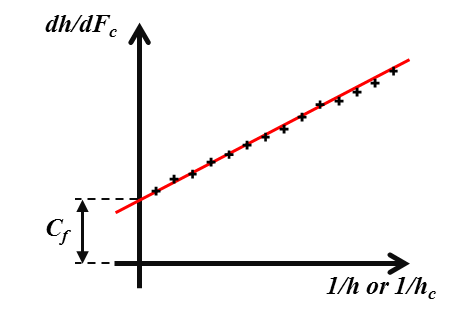
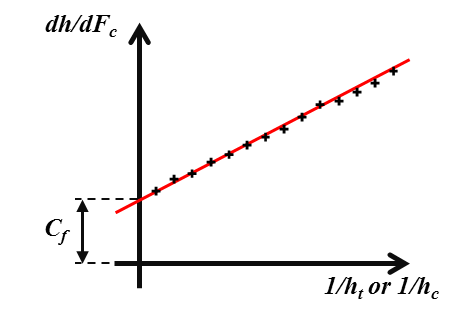
updated doc

Changed region(s): [[0.6985, 0.8544, 0.9718, 0.9399], [0.0911, 0.6835, 0.1518, 0.769], [0.3948, 0.5411, 0.4252, 0.5696]]

diff --git a/doc/models_thin_films.rst b/doc/models_thin_films.rst
@@ -7,53 +7,7 @@ The following parts give a short overview of models existing in the
 literature used for the extraction of mechanical properties of thin films
 deposited on a substrate from indentation experiments with conical indenters.
 
-Nanoindentation tests on thin films
-######################################
-
-For indentation test on a multilayer sample (thin films deposited on a substrate
-for example), the calculated composite reduced modulus :math:`E^{'}` with previous
-models, can generally be expressed as a combination of the respective reduced
-moduli of the films, :math:`E^{'}_\text{f}`, and of the substrate, :math:`E^{'}_\text{s}`.
-
-If the films moduli differs from that of the substrate, then :math:`E^{'}` changes
-with the depth of penetration :math:`h`. The evolution of the composite modulus :math:`E^{'}`
-is function of the material properties of the materials, the thickness :math:`t` and 
-the density of the thin films and the properties and the geometry of the indenter.
-
-If the characterized film is thick enough, it is possible to extract the elastic properties
-for indentation depth lower than 10% of the film thickness (:math:`h \leq 0.1*t`) [#Bückle_1961]_.
-
-Because of the imperfections of the indenters, the roughness and the surface pollution,
-it is more or less meaningful to use this rule of the 10%, for film thicker than 500nm.
-
-Several models to analyse bilayer sample indentation and to extract intrinsic
-material properties of the film from are detailed in the following part.
-
-Mencík et al. proposed the following structures to express the combination of
-:math:`E^{'}_\text{f}` and :math:`E^{'}_\text{s}` [#Mencík_1997]_.
-         
-    .. math:: E^{'} = E^{'}_\text{s} + \left(E^{'}_\text{f} - E^{'}_\text{s}\right) \phi\left(x\right)
-            :label: youngs_modulus_evolution_phi
-
-    .. math:: E^{'} = E^{'}_\text{s} + \left(E^{'}_\text{f} - E^{'}_\text{s}\right) \psi\left(x\right)
-            :label: youngs_modulus_evolution_psi
-            
-Where :math:`x` is the ratio of the contact radius (:math:`a_\text{c}`) or the
-contact depth (:math:`h_\text{c}`), to the film thickness (:math:`t`), and 
-:math:`\phi` and :math:`\psi` are weight functions of the relative penetration :math:`x`.
-:math:`\phi` is equal to 1 when :math:`x` is equal to 0 and 0 when :math:`x` is infinite.
-           
-.. note::
-    If the difference between Poisson's ratio of the thin film and substrate is small,
-    the values for uniaxial loading Young's moduli, :math:`E`, :math:`E_\text{f}`,
-    :math:`E_\text{s}` can be used in previous equation.
-    
-Some of the following models developed are as well detailled in the chapter 8 ("Nanoindentaion of Thin Films")
-of the book "Nanoindentation" written by A.C. Fischer-Cripps [#FischerCripps_2004]_.
-    
-Before, presenting the details of the following models developed for indentation test on coatings,
-is is worth to mention the work performed by Jennett N. M. and Bushby A. J. [#Jennett_2001]_,
-during the European project INDICOAT (SMT4-CT98-2249).
+Before everything, it is is worth to mention the work performed by Jennett N. M. and Bushby A. J. [#Jennett_2001]_, about nanoindentation test on coatings, during the European project INDICOAT (SMT4-CT98-2249).
 
 Progress from this project help in the development of the ISO standard (ISO 14577 - 1-4).
 The ISO 14577 - 4 is dedicated to nanoindentation on coatings.
@@ -66,23 +20,60 @@ The ISO 14577 - 4 is dedicated to nanoindentation on coatings.
 
 - `ISO 14577 - 4 , "Metallic materials -- Instrumented indentation test for hardness and materials parameters -- Part 4: Test method for metallic and non-metallic coatings", (2007). <http://www.iso.org/iso/home/store/catalogue_tc/catalogue_detail.htm?csnumber=39228>`_
 
+Nanoindentation tests on thin films
+######################################
+
+Composite reduced Young's modulus and composite hardness
+----------------------------------------------------------
+
+For indentation test on a coated specimen or on a multilayer sample (e.g.: thin films deposited on a substrate), the evolution of the Young's modulus and the hardness calculated with the models used for bulk materials, is function of the material properties, the thickness :math:`t` and the density of each underlying films (substrate included), and the properties and the geometry of the indenter.
+
+.. figure:: ./_pictures/evolution_EandH_thinfilm.png
+   :scale: 60 %
+   :align: center
+   
+   *Figure 1 : Schematic of the evolution of Young's modulus and hardness for a coated specimen in function of the normalized indentation depth.*
+
+Thus, the composite reduced Young's modulus :math:`E^{'}` and the composite hardness :math:`H`
+calculated with the models used for bulk materials, can generally be expressed as a combination of respectively the reduced Young's moduli :math:`(E^{'}_\text{f})` or the hardness :math:`(H_\text{f})` of each underlayers and respectively the reduced Young's modulus :math:`(E^{'}_\text{s})` or the hardness :math:`(H_\text{s})` of the substrate.
+
+    .. math:: E^{'} = f(E^{'}_{\text{f},{i \rightarrow n}}, t_i, E^{'}_\text{s})
+            :label: youngs_modulus_evolution
+
+    .. math:: H = f(H_{\text{f},{i \rightarrow n}}, t_i, H_\text{s})
+            :label: hardness_evolution
+
+With math:`i` the indice of the layer and math:`n` the total number of layers.
+
 Indentation contact topography
 -------------------------------
 
-For nanoindentation tests on thin films, the contact topography is function of both thin film and substrate properties (see Figure 1).
+For nanoindentation tests on thin films, the contact topography is function of both thin film and substrate properties.
 
 .. figure:: ./_pictures/contact_topography_thinfilm.png
    :scale: 60 %
    :align: center
    
-   *Figure 1 : Schematic depiction of a) "pile-up" and b) "sink-in" for thin films.*
+   *Figure 2 : Schematic depiction of a) "pile-up" and b) "sink-in" for thin films.*
    
-The Figure 1-a ("pile-up") is typical of the case of a soft film on a hard substrate and the Figure 1-b ("sink-in") of a hard film on a soft substrate [#ChenVlassak2001]_.
+The Figure 2-a ("pile-up") is typical of the case of a soft film on a hard substrate and the Figure 2-b ("sink-in") of a hard film on a soft substrate [#ChenVlassak2001]_.
    
 To determine the depth of contact, `the same models <http://nims.readthedocs.org/en/latest/models.html#indentation-contact-topography>`_ described for bulk material indentation are used.
 
 Elastic properties of a thin film on a substrate
 ##################################################
+
+Several models to analyse indentation tests on bilayer sample and multilayer sample and to extract intrinsic
+material properties of the upper film (or the top coating) are detailed in the following part.
+
+Some of the following models developed are detailed in the chapter 8 
+("Nanoindentation of Thin Films") of the book "Nanoindentation" written by A.C. Fischer-Cripps [#FischerCripps_2004]_.
+
+Bückle (1961) 
+--------------
+
+Bückle proposed an empirical law to characterize thick coatings on a substrate [#Bückle_1961]_.
+It is possible to estimate the Young's modulus of the coating for indentation depth lower than 10% of the film thickness. But, because of the imperfections of the indenters, the roughness and the surface pollution, it is more meaningful to use this rule of the "10%", for film thicker than 500nm.
 
 Doerner and Nix (1986) 
 -------------------------
@@ -152,10 +143,32 @@ Find here the |matlab| function for :math:`\nu_{c}` the composite Poisson's rati
 Find here the |matlab| function for the Gao et al. model :
 `model_gao.m <https://github.com/DavidMercier/NIMS/blob/master/Matlab_Code/elastic_models/model_gao.m>`_.
 
+Mencík et al. (1997) 
+-----------------------
+
+Mencík et al. proposed the following structures to express the combination of
+:math:`E^{'}_\text{f}` and :math:`E^{'}_\text{s}` [#Mencík_1997]_.
+         
+    .. math:: E^{'} = E^{'}_\text{s} + \left(E^{'}_\text{f} - E^{'}_\text{s}\right) \phi\left(x\right)
+            :label: youngs_modulus_evolution_phi
+
+    .. math:: E^{'} = E^{'}_\text{s} + \left(E^{'}_\text{f} - E^{'}_\text{s}\right) \psi\left(x\right)
+            :label: youngs_modulus_evolution_psi
+            
+Where :math:`x` is the ratio of the contact radius (:math:`a_\text{c}`) or the
+contact depth (:math:`h_\text{c}`), to the film thickness (:math:`t`), and 
+:math:`\phi` and :math:`\psi` are weight functions of the relative penetration :math:`x`.
+:math:`\phi` is equal to 1 when :math:`x` is equal to 0 and 0 when :math:`x` is infinite.
+           
+.. note::
+    If the difference between Poisson's ratio of the thin film and substrate is small,
+    the values for uniaxial loading Young's moduli, :math:`E`, :math:`E_\text{f}`,
+    :math:`E_\text{s}` can be used in previous equation.
+    
 Mencík et al. (linear model) (1997) 
 ------------------------------------
 
-Mencík described the linear model by the following expression [#Mencík_1997]_ :
+Mencík described too the linear model by the following expression [#Mencík_1997]_ :
 
     .. math:: E^{'} = E^{'}_\text{f} + \left(E^{'}_\text{s} -
               E^{'}_\text{f}\right)\left(x\right)
@@ -256,13 +269,13 @@ Bec et al. (2006)
 The elastic model of Bec et al. is based on indentation by a rigid cylindrical punch (radius :math:`a_\text{c}`)
 of a homogeneous film deposited on a semi-infinite half space [#Bec_2006]_.
 
-This system is modelled by two springs connected in series (see Figure 2).
+This system is modelled by two springs connected in series :
 
 .. figure:: ./_pictures/Bec_bilayer_model.png
    :scale: 40 %
    :align: center
    
-   *Figure 2 : Schematic description of the bilayer model of Bec et al.*
+   *Figure 3 : Schematic description of the bilayer model of Bec et al.*
 
     .. math:: K_\text{f} = \pi a_\text{c}^2 \frac{E^{'}_\text{f}}{t}
             :label: bec_kf
@@ -393,10 +406,10 @@ Thus, the Young’s modulus of the film can be calculated as :
    :scale: 30 %
    :align: center
    
-   *Figure 3 : Schematic of elastic multilayer model.*
+   *Figure 4 : Schematic of elastic multilayer model.*
 
 It is advised to perform nanoindentation tests on each layer of the multilayer sample,
-from the substrate up to the final stack of layers (see Figure 4). By successive iterations using
+from the substrate up to the final stack of layers (see Figure 5). By successive iterations using
 the model of Mercier et al., values of Young's modulus of each layer are extracted
 from the contact stiffness.
 
@@ -404,7 +417,7 @@ from the contact stiffness.
    :scale: 30 %
    :align: center
    
-   *Figure 4 : Experimental process to apply for elastic multilayer model.*
+   *Figure 5 : Experimental process to apply for elastic multilayer model.*
 
 Find here the |matlab| function for the Mercier et al. model :
 `model_multilayer_elastic.m <https://github.com/DavidMercier/NIMS/blob/master/Matlab_Code/elastic_models/model_multilayer_elastic.m>`_.
@@ -412,14 +425,30 @@ Find here the |matlab| function for the Mercier et al. model :
 Extraction of plastic properties of a thin film on a multilayer system
 ########################################################################
 
+Bückle proposed an expression of the composite hardness in the case of a two-layer material
+
+
+that the hardness of the
+stratified material should be expressed as a weighted
+sum of the different layer hardnesses during deformation.
+In the case of a two-layer material, the composite
+hardness H, is given by:
+
 [#Bückle_1961]_
 
     .. math:: H = aH_\text{f} + bH_\text{s}
             :label: buckle_hardness
 
+With :math:`a + b = 1`.
+
+
 [#Jönsson_1984]_
 
+    .. math:: H = aH_\text{f} + bH_\text{s}
+            :label: jonsson_hardness
+
 [#Doerner_1986]_
+
 
 [#ChicotLesage_1995]_
 
@@ -460,7 +489,7 @@ depths :math:`h_\text{c}` smaller than the film thickness.
    :scale: 60 %
    :align: center
    
-   *Figure 5 : Indentation penetration of a thin film on a sample.*
+   *Figure 6 : Indentation penetration of a thin film on a sample.*
    
 Recently, Li et al. proposed to express the local thinning effect as [#Li_2010]_:
 

diff --git a/doc/models.rst b/doc/models.rst
@@ -87,7 +87,7 @@ into the studied material. This frame compliance :math:`C_\text{f}` contributes 
     .. math:: S = \left(\frac{dh}{dF_\text{c}} - C_\text{f}\right)^{-1}
             :label: corrected_stiffness
 
-To determine the frame compliance, it is required to plot :math:`\frac{dh}{dF_\text{c}}` vs. the corrected total depth :math:`(1/h)` or the corrected plastic depth :math:`(1/{h_\text{c}})` (see `Indentation contact topography <http://nims.readthedocs.org/en/latest/models.html#indentation-contact-topography>` for the definition of the plastic depth) [#DoernerNix_1986]_ and [#Fischer-Cripps_2006]_. Then, a linear fit of this curve gives an intercept with the ordinate axis which is the frame compliance (see Figure 3).
+To determine the frame compliance, it is required to plot :math:`\frac{dh}{dF_\text{c}}` vs. the corrected total depth :math:`(1/h_\text{t})` or the corrected plastic depth :math:`(1/{h_\text{c}})` (see `Indentation contact topography <http://nims.readthedocs.org/en/latest/models.html#indentation-contact-topography>`_ for the definition of the plastic depth) [#DoernerNix_1986]_ and [#Fischer-Cripps_2006]_. Then, a linear fit of this curve gives an intercept with the ordinate axis which is the frame compliance (see Figure 3).
 
 .. figure:: ./_pictures/frame_compliance.png
    :scale: 60 %
